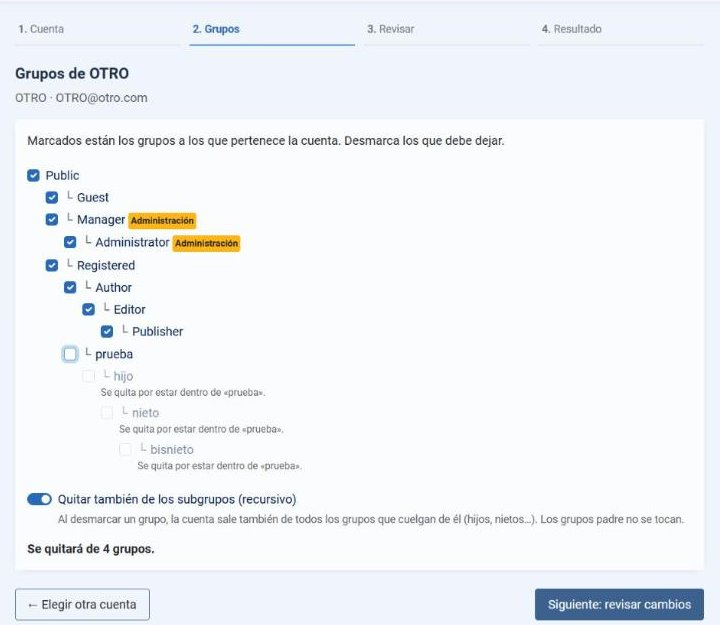
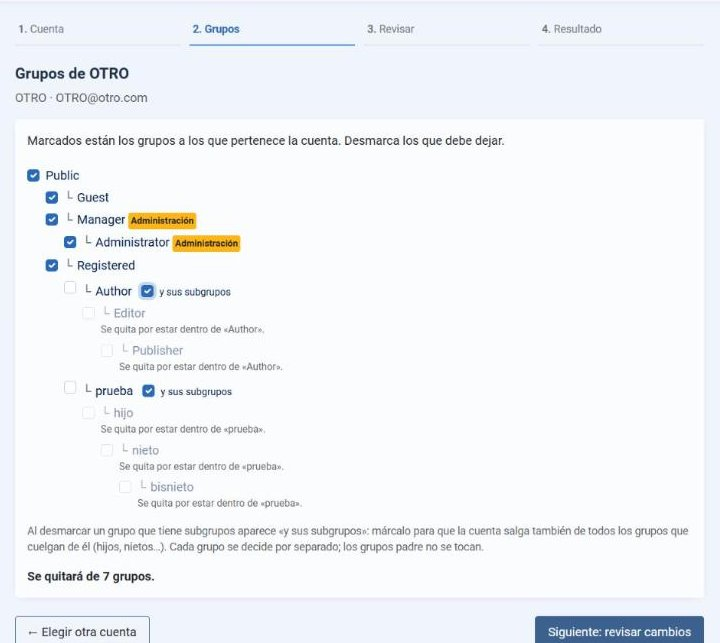
Refresh the groups-step screenshot for "and its subgroups"
Taken on the test Joomla with 2026.10.10: two independent cascades
(Author and prueba) on account OTRO, no change applied.

Claude-Session: https://claude.ai/code/session_01WVx7CxBpcuGzXeHpUpPAj1

diff --git a/docs/screenshots.en.md b/docs/screenshots.en.md
@@ -26,7 +26,7 @@ These shared screenshots show the Spanish interface on Joomla 6.2.0. Deletion sc
 
 ![Remove from groups: choose the account (2026.10.9)](screenshots/15-quitar-grupos-cuenta.jpg)
 
-![Remove from groups: the account's groups in their tree, with “and its subgroups” (2026.10.9)](screenshots/16-quitar-grupos-seleccion.jpg)
+![Remove from groups: the account's groups in their tree, with “and its subgroups” on two groups (2026.10.10)](screenshots/16-quitar-grupos-seleccion.jpg)
 
 ![Remove from groups: review, with the group that causes each cascaded removal (2026.10.9)](screenshots/17-quitar-grupos-revision.jpg)
 

diff --git a/docs/capturas.md b/docs/capturas.md
@@ -26,7 +26,7 @@ Estas capturas compartidas muestran la interfaz en español en Joomla 6.2.0. Las
 
 ![Quitar de grupos: elegir la cuenta (2026.10.9)](screenshots/15-quitar-grupos-cuenta.jpg)
 
-![Quitar de grupos: grupos de la cuenta en su árbol, con «y sus subgrupos» (2026.10.9)](screenshots/16-quitar-grupos-seleccion.jpg)
+![Quitar de grupos: grupos de la cuenta en su árbol, con «y sus subgrupos» en dos grupos (2026.10.10)](screenshots/16-quitar-grupos-seleccion.jpg)
 
 ![Quitar de grupos: revisión, con el grupo que provoca cada baja en cascada (2026.10.9)](screenshots/17-quitar-grupos-revision.jpg)
 
